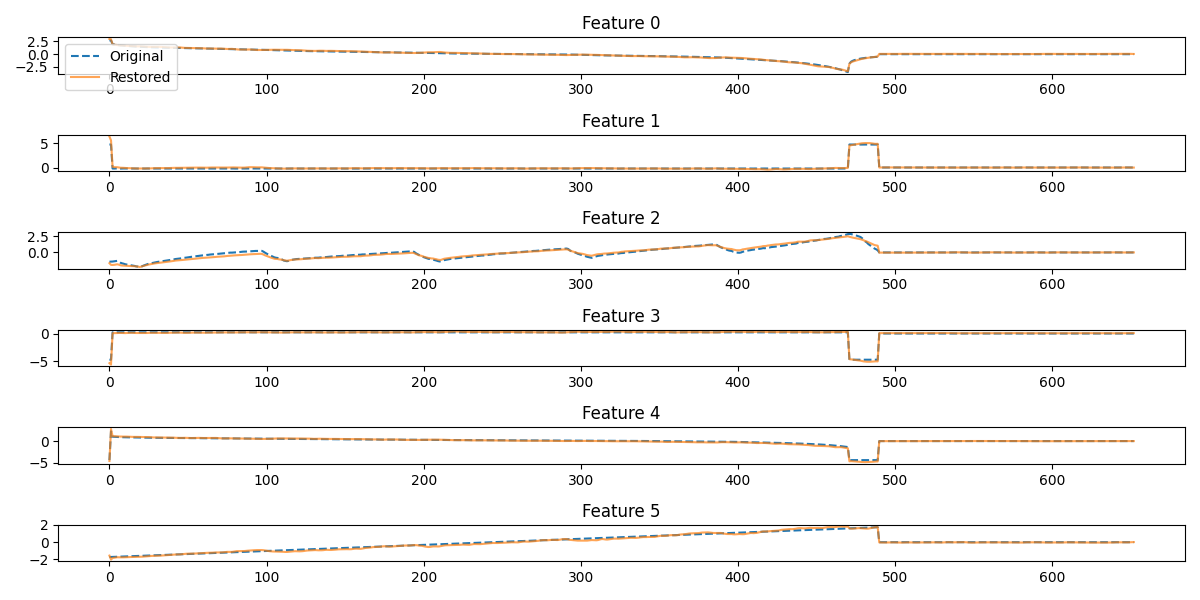
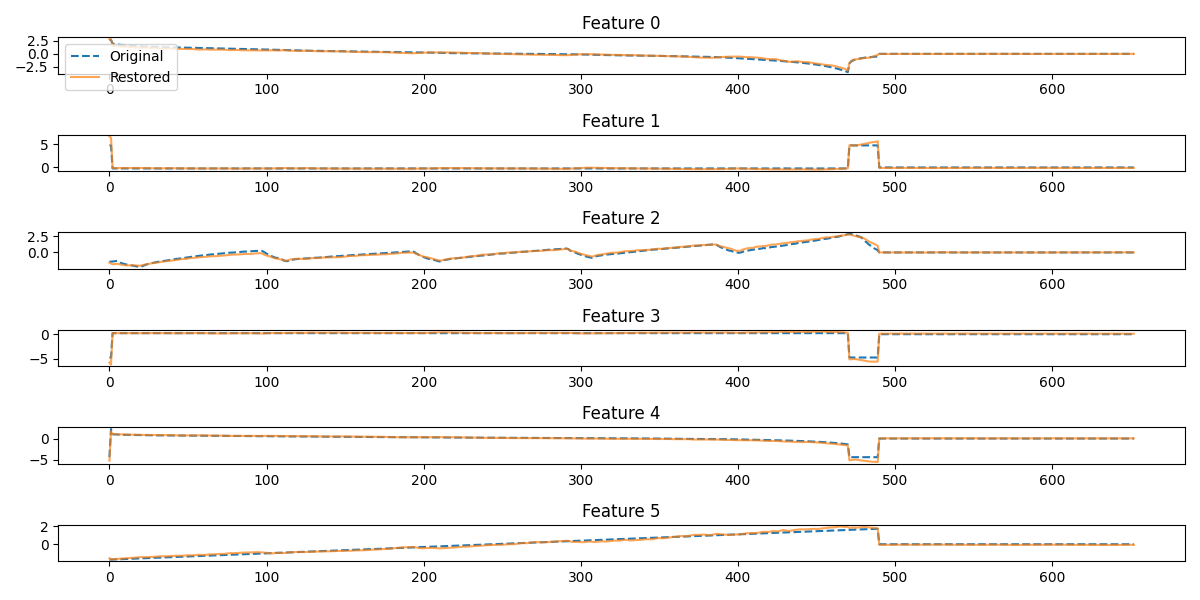
🎨 Feat : 압축 결과 전송 시 노이즈 추가를 고려함 (가우시안)

diff --git a/prototype_main.py b/prototype_main.py
@@ -75,6 +75,19 @@ def visualize_reconstruction(original, restored, sample_idx):
     plt.savefig(f'./reconstructed/compare_sample{sample_idx}.png')
     plt.close()
 
+def add_gaussian_noise(tensor, std=0.05):
+    noise = torch.randn_like(tensor) * std
+    return tensor + noise
+
+def randomly_mask_segments(tensor, drop_ratio=0.1):
+    B, T, D = tensor.shape
+    mask = torch.ones_like(tensor)
+    for b in range(B):
+        start = torch.randint(0, T - int(T * drop_ratio), (1,))
+        end = start + int(T * drop_ratio)
+        mask[b, start:end, :] = 0
+    return tensor * mask
+
 if __name__ == '__main__':
     import os
     import pandas as pd
@@ -94,8 +107,13 @@ if __name__ == '__main__':
         total_loss = 0
         for batch in tqdm(train_loader, desc=f"Epoch {epoch+1}/{num_epochs}"):
             x = batch[0].to(device)
+
+            # 🔹 노이즈 삽입 (가우시안 또는 마스킹 중 택 1)
+            x_noised = add_gaussian_noise(x)
+            # x_noised = randomly_mask_segments(x)  # 필요시 교체 가능
+
             optimizer.zero_grad()
-            output = model(x)
+            output = model(x_noised)
             loss = criterion(output, x)
             loss.backward()
             optimizer.step()
